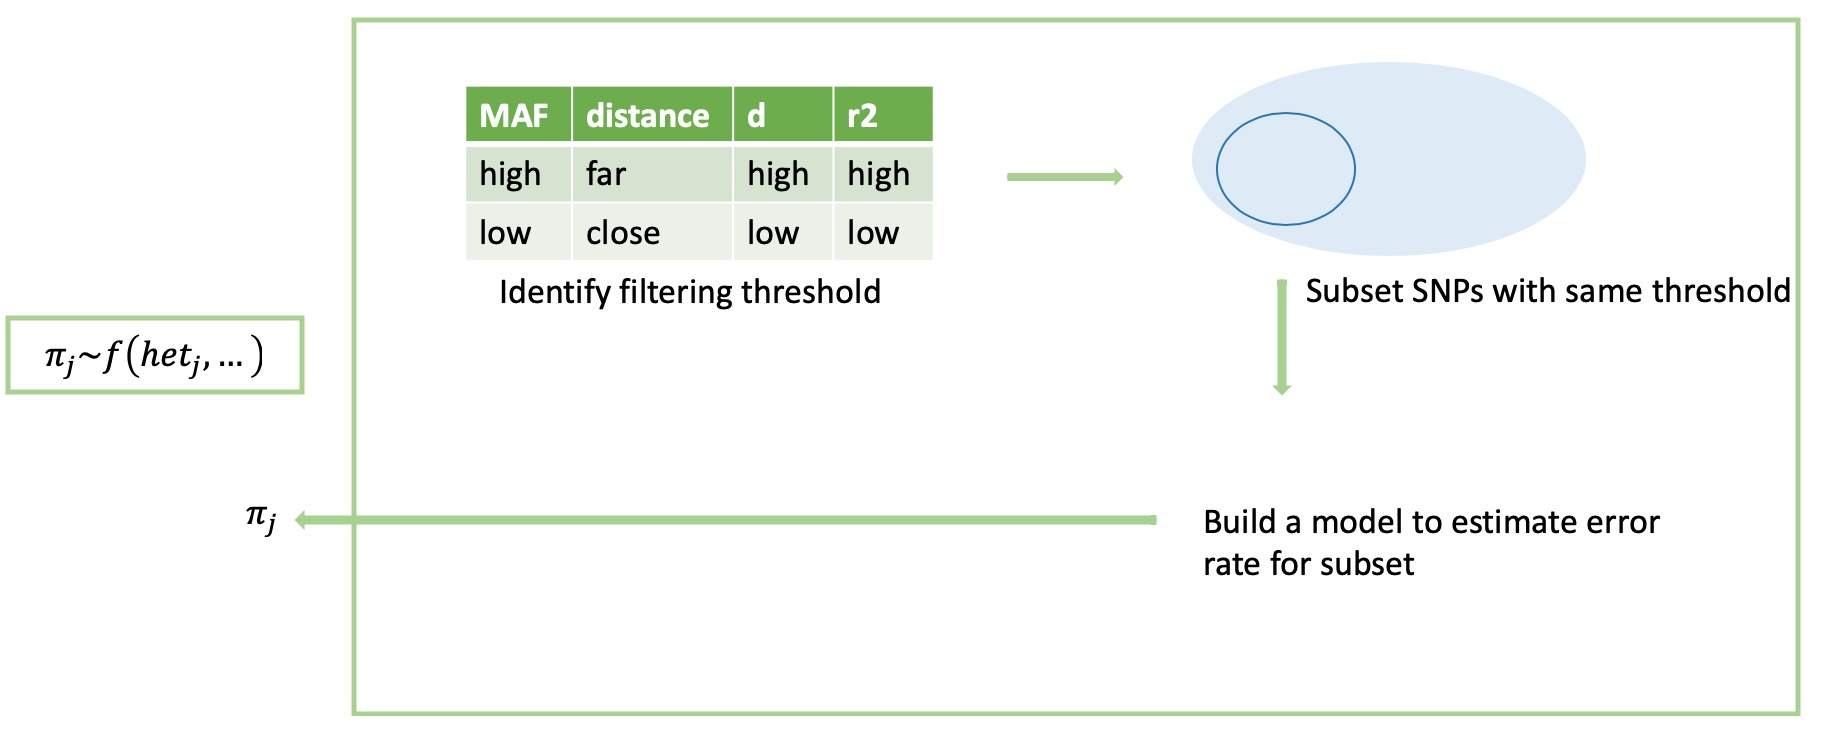
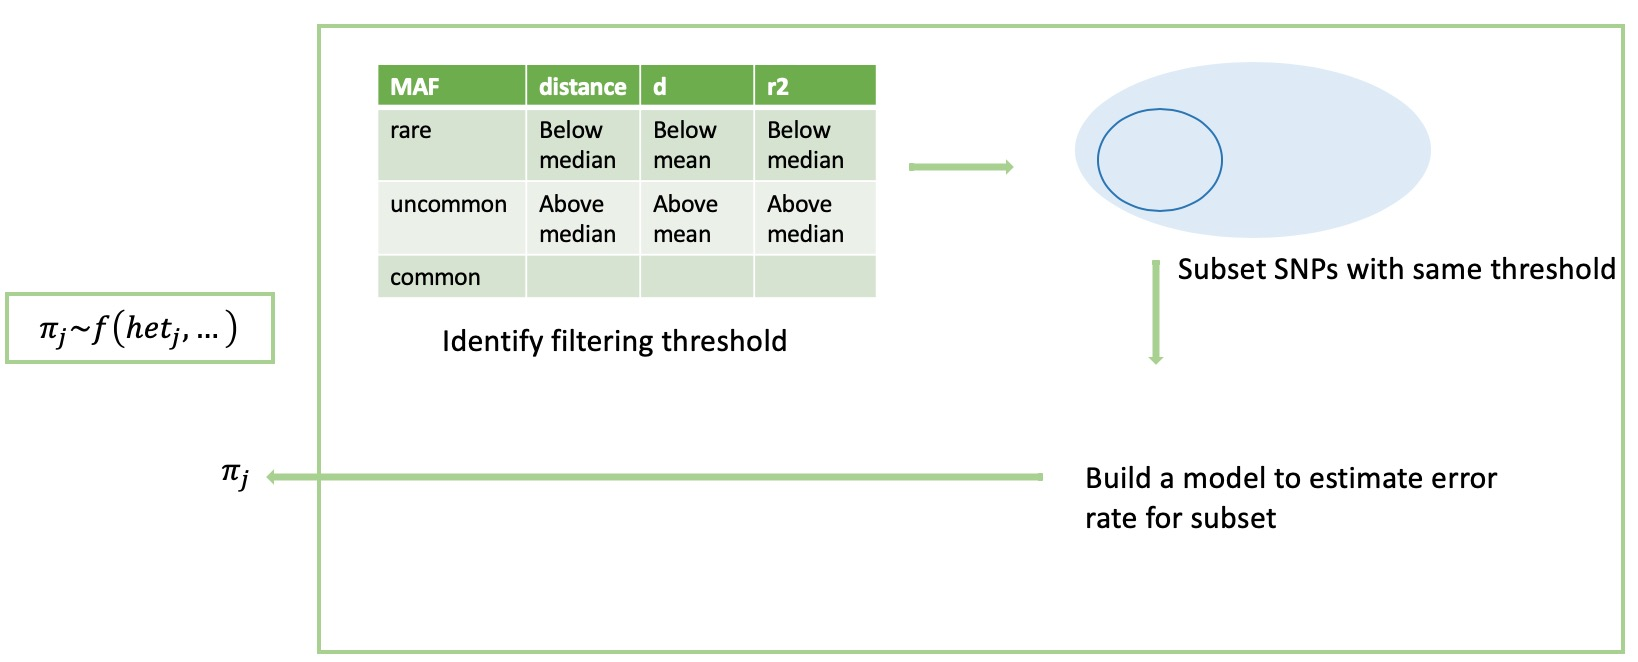
updates

diff --git a/DOC_ModelPrior.md b/DOC_ModelPrior.md
@@ -6,40 +6,72 @@ https://pandoc.org/installing.html
 Goal
 ======
 #### We want to improve prior for phasing error rate , 𝜋 , in BEASTIE model
-![alt text](figures/model_pi.jpg "BEASTIE model phasing error rate 𝜋")
 1. version 1.0: With simple assumption of low (10%) phasing error rate for data, we use arbitray beta(1,10) distribution centers at 0.09 (highlighted in the figure above) in BEASTIE model.
 2. version 2.0: Use individual data features to estimate more-informative phasing error rate for each SNP.
+![alt text](figures/model_pi.jpg "BEASTIE model phasing error rate 𝜋")
 
 Background
 ======
 #### What we learned from BEASTIE model performance already
-![alt text](figures/model_lowrate.jpg "BEASTIE model phasing error rate 𝜋")
 When we assume data with 10% phasing error rate by setting 𝜋 ~ beta(1,10), we observe:
 1. BEASTIE outperforms ADAM when true error rate belows 10%.
 2. BEASTIE outperforms ADAM when true error rate equal/above 10% with prior distribution centers at true error rate
 
 TO DO
 ======
-#### Step1: Build a more informative prior on phasing error parameter, 𝜋
-![alt text](figures/currentExpect.jpg "Logo Title Text 1")
+
+### Step1: Setting thresholds for filtering
+We want to divide interested features into bins/categories
+
+**Table: Data statistics (example data from NA12898 phased by shapeit)**
+![alt text](figures/NA12878_features.jpg "NA12878_features")
+
+**Table: Divide four features (for each pair of SNPs)**
+| smaller MAF between 2SNPs| distance between 2SNPs| d' between 2SNPs|r2 between 2SNPs|
+| -- |-- |-- |-- |
+| <1% (rare)|  <211 (lower than median)    |<0.9143 (lower than mean) | <0.63 (lower than median)|
+| 1%-5% (uncommon)|  >=211 (higher than median)    |>=0.9143 (higher than mean)| >=0.63 (higher than median) |
+| >5% (common)| | | |
+
+
+### Step2: Build a more informative prior on phasing error parameter, 𝜋
+![alt text](figures/currentExpect.jpg "currentExpect")
+
 ##### Current: simple assumption for low phasing error rate
 ```
 𝑔𝑒𝑛𝑒 𝑠𝑝𝑒𝑐𝑖𝑓𝑖𝑐 𝑝𝑟𝑖𝑜𝑟: 𝜋~𝑏𝑒𝑡𝑎(1,10)
 ```
 ##### Expect: integrate information from relative distance between hets/LD/L.R.R/genetics map
 ```
-ℎ𝑒𝑡𝑠−𝑠𝑖𝑡𝑒 𝑠𝑝𝑒𝑐𝑖𝑓𝑖𝑐 𝑝𝑟𝑖𝑜𝑟: 𝜋~𝑓(𝑑𝑖𝑠𝑡𝑎𝑛𝑐𝑒,𝐿.𝑅.𝑅)
+ℎ𝑒𝑡𝑠−𝑠𝑖𝑡𝑒 𝑠𝑝𝑒𝑐𝑖𝑓𝑖𝑐 𝑝𝑟𝑖𝑜𝑟: 𝜋~𝑓(𝑑𝑖𝑠𝑡𝑎𝑛𝑐𝑒,𝐿.𝑅.𝑅,etc)
 ```
-1. sample a value from an estimated distribution
-![alt text](figures/plan1_demo.jpg "Logo Title Text 1")
+1. sample a value from an estimated distribution. Here, we will explore examples in each feature listed in the table below, respectively
+* **Example1**: Group SNPs into **`22 chr`**, obtain mean/std to fit beta distribution
+* **Example2**: Group SNPs into **`100 bins`**, obtain mean/std to fit beta distribution
 
-* Example1: Divide SNPs into chr, obtain mean/std
-![alt text](figures/phaseError_bychr.jpg "Logo Title Text 1")
-![alt text](figures/example1_fittedBeta.jpg "Logo Title Text 1")
-* Example2: estimate a value from features
-![alt text](figures/plan2_demo.jpg "Logo Title Text 1")
-![alt text](figures/example12_fittedBeta_density.jpg "Logo Title Text 1")
-![alt text](figures/example12_fittedBeta_hist.jpg "Logo Title Text 1")
+![alt text](figures/plan1_demo.jpg "plan1_demo")
+
+
+Example1: group by Chr
+======
+
+**1. Filtering by distance**
+![alt text](figures/example1_fittedBeta.jpg "example1_fittedBetaDistribution")
+
+**2. Filtering by MAF**
+
+**3. Filtering by d'**
+
+**4. Filtering by r2**
+
+
+
+Example2
+======
+* **Example2**: estimate a value from features
+![alt text](figures/plan2_demo.jpg "plan2_demo")
+![alt text](figures/example12_fittedBeta_density.jpg "example12_fittedBeta_density")
+![alt text](figures/example12_fittedBeta_hist.jpg "example12_fittedBeta_hist")
 * conclusion:
 
 

diff --git a/DOC_GSDpatients.md b/DOC_GSDpatients.md
@@ -1,0 +1,91 @@
+# GSD patients summary
+##### Weekly updates: 06/24/2020
+
+**P.S.**
+
+*mc: manual correction*
+
+Data description:
+
+**Table: ID matching**
+|aliqot ID| patient ID| identifier|
+|--|--|--|
+|122687|||
+|122698|||
+|125249|||
+|125260|||
+|123667|||
+|123375|||
+
+125249 and 125260 siblings
+======
+**Target gene: chr16: PHKG2**
+
+Patient: 125249
+
+| Chr| varianst pos |rs ID|phasing|location|varaint type        |ALT|REF|total|ALT (mc)|REF(mc)|total(mc)|
+| -- |:------------:|:----:|:----: |:------:|:------------------:|:----: |:----: |:----: |:----: |:----: |:----: |
+| 16 |  30765947    |rs1433965292 | 0/1   |intron  |intron variant (T>G) |13|2|15|13|2|15|
+| 16 |  30768499    | rs77175815|0/1   |exon    |3' UTR variant (C>G)|115|60|175|115|60|175|
+| 16 |  30768503    | .| 0/1   |exon    |3' UTR variant (substitution T>A)|44|294|338|44|294|338|
+| 16 |  30770950    |rs62622830|0/1   |exon    |3' UTR variant (missence T>C)|4|6|10|4|6|10|
+| 16 |  `30762416`    | |0/1   |intron  |`pathogenic (splice site)` ||||`23`|`24`|`47`|
+
+Patient: 125260
+
+| Chr| varianst pos |rs ID|phasing|location|varaint type        |ALT|REF|total|ALT (mc)|REF(mc)|total(mc)|
+| -- |:------------:|:----:|:----: |:------:|:------------------:|:----: |:----: |:----: |:----: |:----: |:----: |
+| 16 |  30765947    | rs1433965292|0/1   |intron  |intron variant (T>G) |8|4|12|8|4|12
+| 16 |  30768499    | rs77175815|0/1   |exon    |3' UTR variant (C>G)|50|16|66|50|16|66
+| 16 |  30768503    | .|0/1   |exon    |3' UTR variant (substitution T>A)|10|107|117|10|107|117
+| 16 |  30770950    | rs62622830|0/1   |exon    |3' UTR variant (missence T>C)|2|3|5|2|3|5
+| 16 |  `30762416`    | |0/1   |intron  |`pathogenic (splice site)` ||||`13`|`28`|`41`|
+
+Conclusion:
+
+Note: 
+
+
+![alt text](figures/Picture1.png "Logo Title Text 1")
+Note: those three variants are not in the coding region: 30768499, 30768503, 30770950
+
+122687 and 122698 siblings
+======
+**Target gene: chr11: SLC37A4**
+
+Patient: 122687
+
+| Chr| varianst pos |rs ID|phasing|location|varaint type        |ALT|REF|total|ALT (mc)|REF(mc)|total(mc)|
+| -- |:------------:|:----:|:----: |:------:|:------------------:|:----: |:----: |:----: |:----: |:----: |:----: |
+| 11 |  30765947    |rs1433965292 | 0/1   |intron  |intron variant (T>G) |13|2|15|13|2|15|
+| 11 |  30768499    | rs77175815|0/1   |exon    |3' UTR variant (C>G)|115|60|175|115|60|175|
+| 11 |  30768503    | .| 0/1   |exon    |3' UTR variant (substitution T>A)|44|294|338|44|294|338|
+| 11 |  30770950    |rs62622830|0/1   |exon    |3' UTR variant (missence T>C)|4|6|10|4|6|10|
+| 11 |  `30762416`    | |0/1   |intron  |`pathogenic (splice site)` ||||`23`|`24`|`47`|
+
+Patient: 122698
+
+
+
+123667
+======
+**Target gene: chr1: GBA**
+
+Patient: 123667
+
+| Chr| varianst pos |rs ID|phasing|location|varaint type        |ALT|REF|total|ALT (mc)|REF(mc)|total(mc)|
+| -- |:------------:|:----:|:----: |:------:|:------------------:|:----: |:----: |:----: |:----: |:----: |:----: |
+| 1 |  155210451    |rs387906315 | 0/1   |exon  |`pathogenic (frameshift variant, inserG)` |0|8|8|`4`|`1`|`5`|
+
+
+
+123375
+======
+**Target gene: chr1: AGL**
+
+Patient: 123667
+
+| Chr| varianst pos |rs ID|phasing|location|varaint type        |ALT|REF|total|ALT (mc)|REF(mc)|total(mc)|
+| -- |:------------:|:----:|:----: |:------:|:------------------:|:----: |:----: |:----: |:----: |:----: |:----: |
+| 1 |  100341003    |. | 0/1   |exon  |`pathogenic (deletion of G)` |0|10|10|`5`|`5`|`10`|
+

diff --git a/DOC_logisticrReg.md b/DOC_logisticrReg.md
@@ -1,2 +1,16 @@
 # Logistic regression for features on phasing error
 ##### Weekly updates: 06/17/2020
+
+
+#### Step2: Explore the feastures that have predictive power on phasing error
+##### logistic regression model shows that all four features (IVs) have significant affect on error (DV)
+![alt text](figures/logistic_full.png "Logo Title Text 1")
+##### four features distribution by class
+![alt text](figures/4features.png "Logo Title Text 1")
+##### four features distribution
+![alt text](figures/4features_all.png "Logo Title Text 1")
+##### dicatomize features
+![alt text](figures/feature_dicatomize.png "Logo Title Text 1")
+
+
+![alt text](figures/phaseError_bychr.jpg "phaseError_bychr")

diff --git a/DOC_modelPerformance.md b/DOC_modelPerformance.md
@@ -1,0 +1,10 @@
+# Logistic regression for features on phasing error
+##### Weekly updates: 06/17/2020
+
+Background
+======
+#### What we learned from BEASTIE model performance already
+![alt text](figures/model_lowrate.jpg "BEASTIE model phasing error rate 𝜋")
+When we assume data with 10% phasing error rate by setting 𝜋 ~ beta(1,10), we observe:
+1. BEASTIE outperforms ADAM when true error rate belows 10%.
+2. BEASTIE outperforms ADAM when true error rate equal/above 10% with prior distribution centers at true error rate
